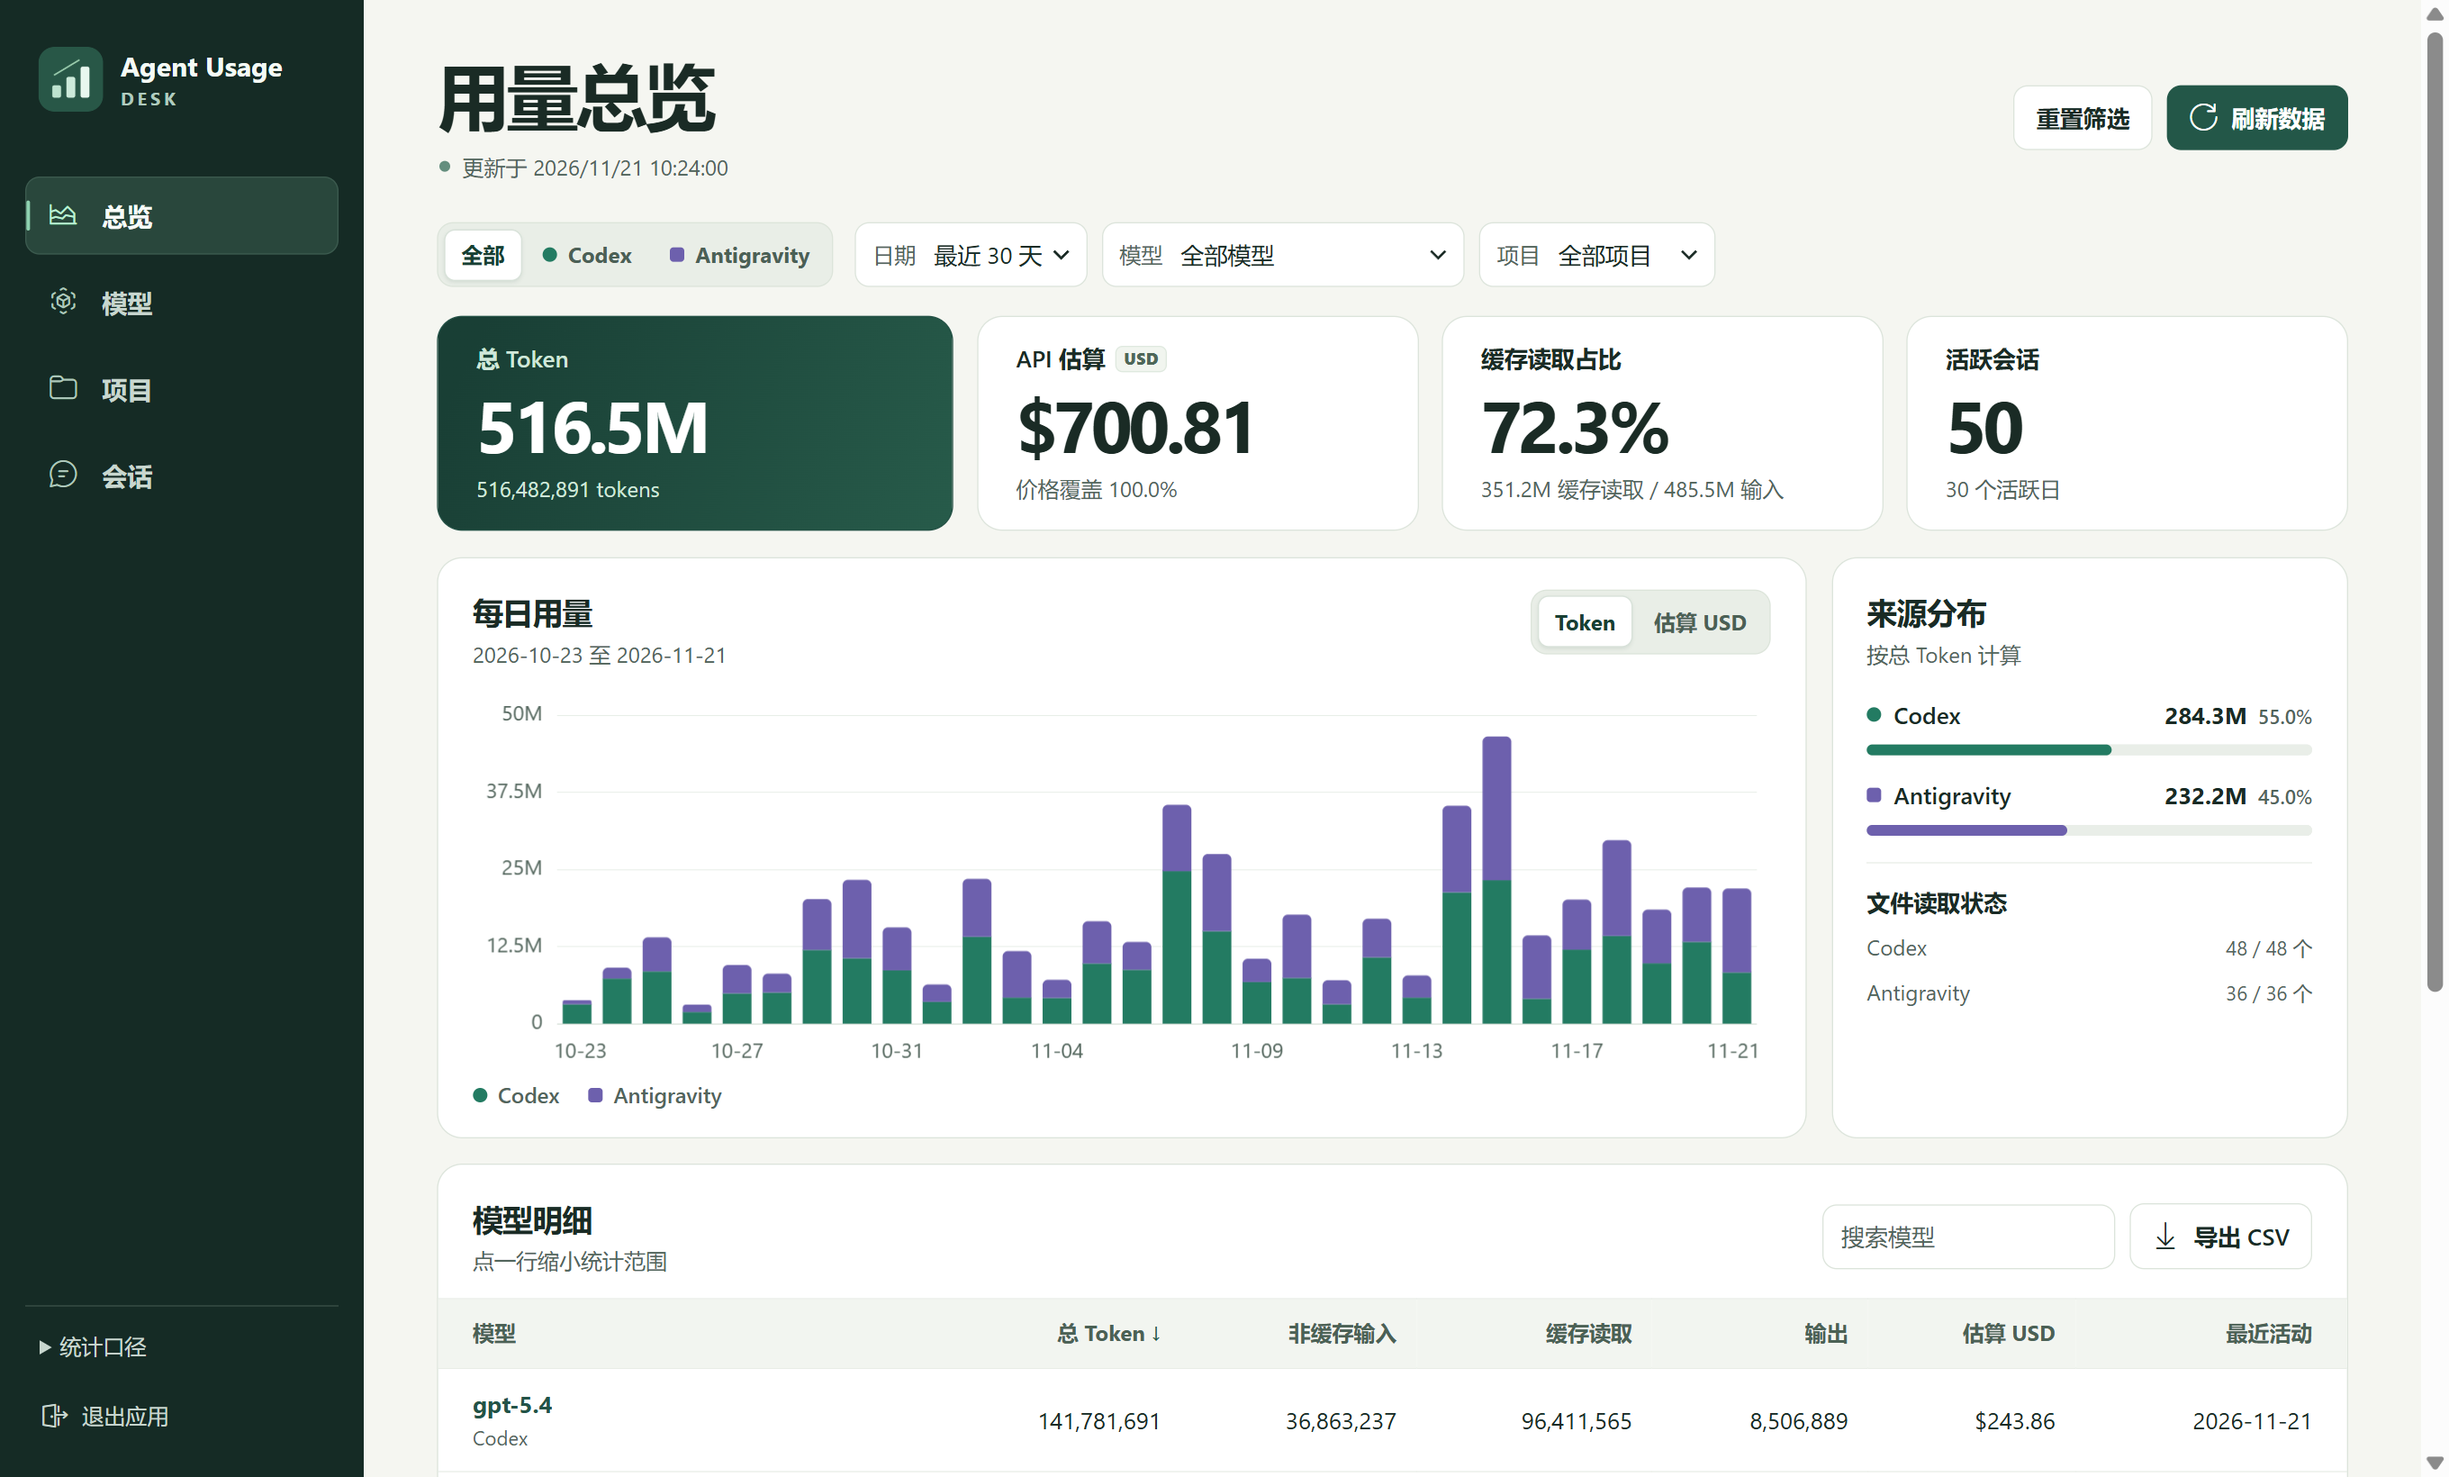
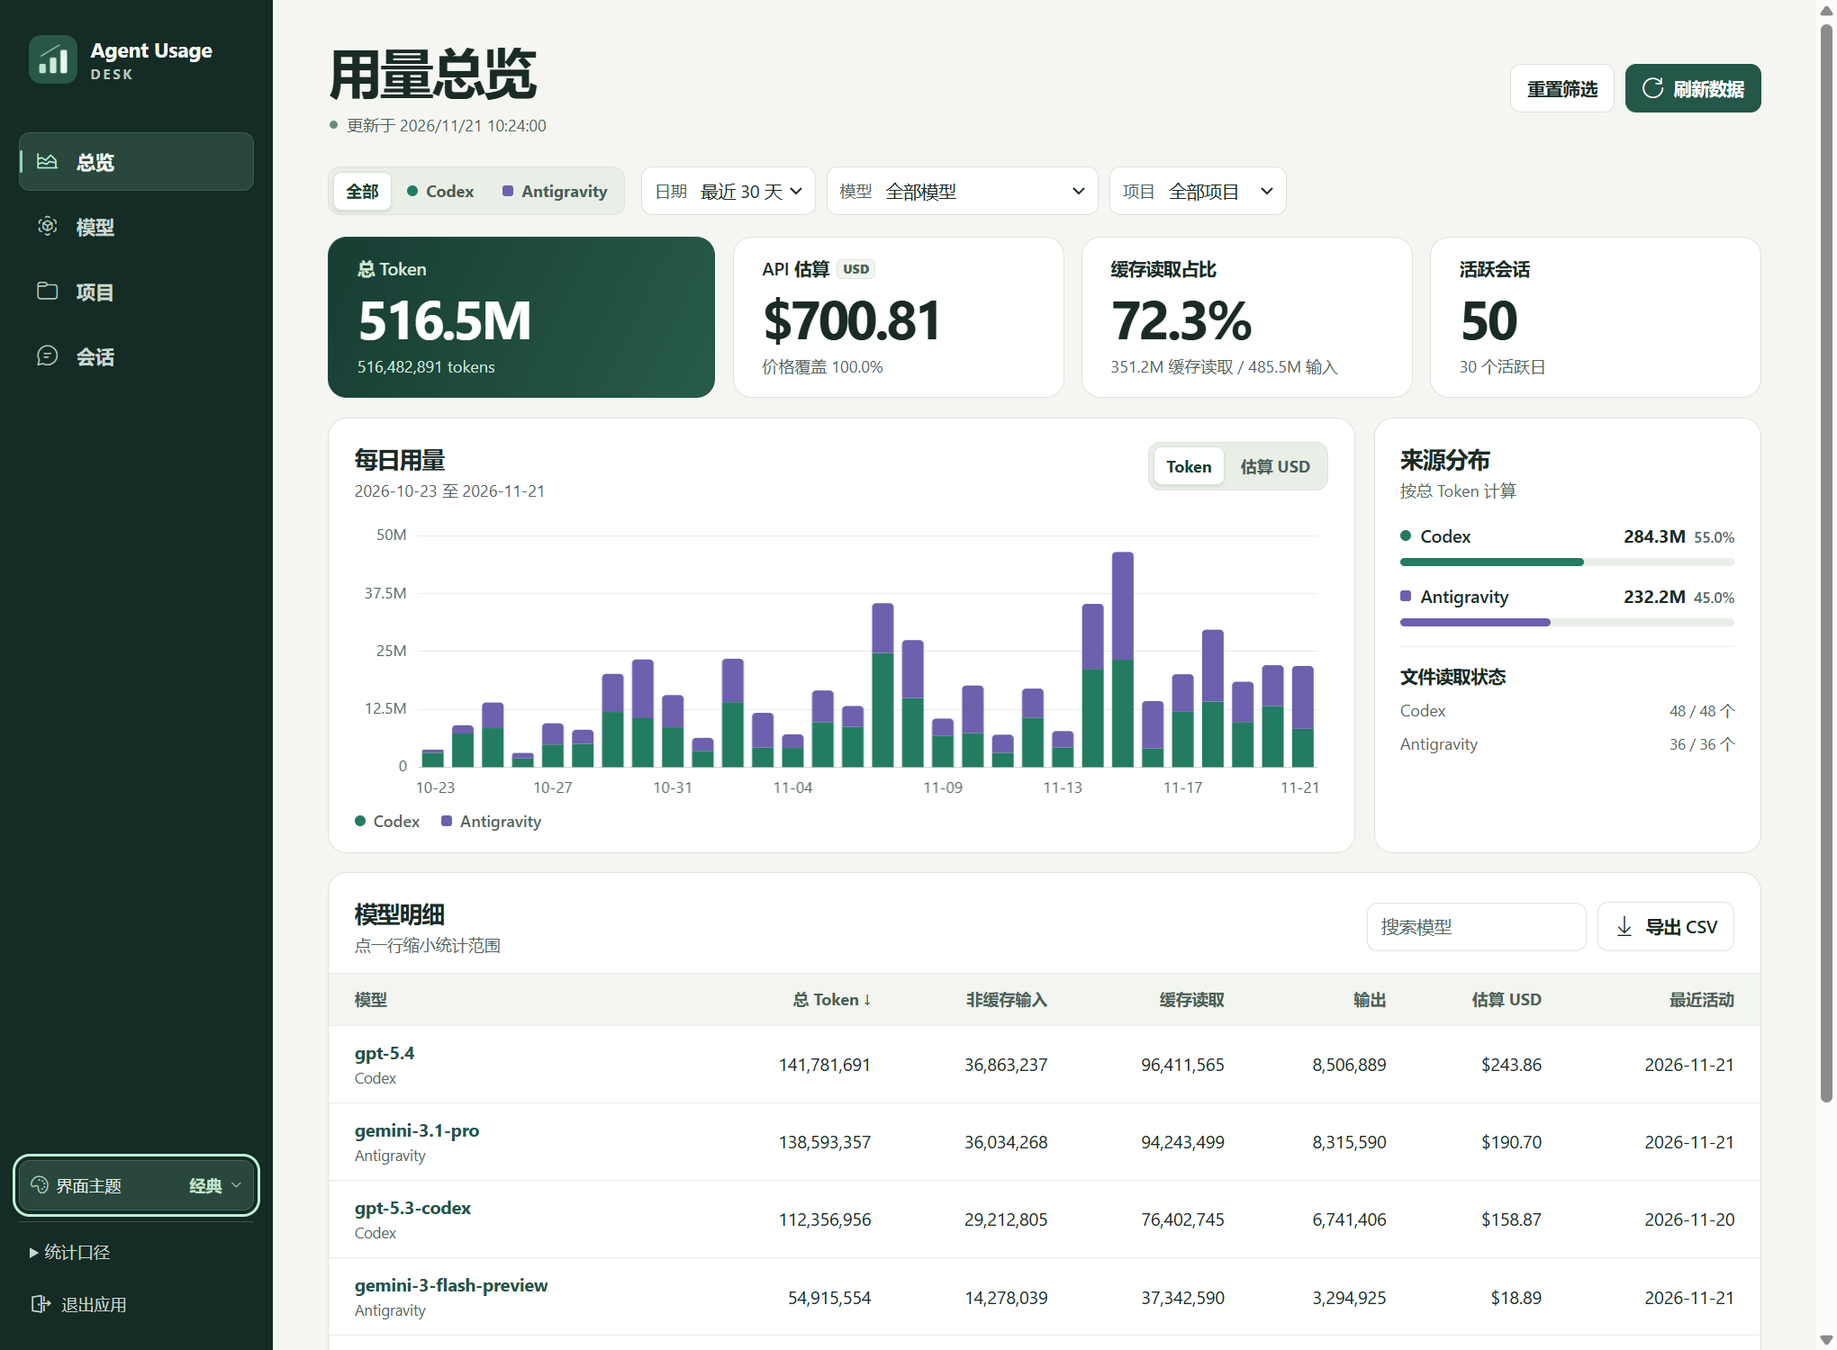
Document the v0.4.1 release and MOONDROP artwork authorization

diff --git a/README.md b/README.md
@@ -8,11 +8,21 @@ Agent Usage Desk 从两款应用的本地记录统计 token，按模型、项目
 
 ## 下载并打开
 
-1. 在 [Releases](https://github.com/shushuyang231/agent-usage-desk/releases/latest) 下载 `Agent-Usage-Desk-0.2.0-windows-x64.exe`。
+1. 在 [最新发行页](https://github.com/shushuyang231/agent-usage-desk/releases/latest) 下载 Windows x64 便携版。当前版本为 [v0.4.1](https://github.com/shushuyang231/agent-usage-desk/releases/tag/v0.4.1)。
 2. 双击启动。程序会在独立窗口打开，并自动扫描本机已有的用量记录。首次扫描的耗时取决于记录数量。
 3. 选择 **Codex**、**Antigravity** 或 **全部**，再用日期、模型和项目缩小范围。
 
-需要 Windows 10 / 11 x64、.NET Framework 4.8 或更新的 4.x 版本，以及 [Microsoft Edge WebView2 Runtime](https://developer.microsoft.com/microsoft-edge/webview2/)。这个版本采用便携单文件分发，当前没有数字签名。日常打开和刷新无需登录或提供 API Key。升级时先关闭旧版窗口，再打开新版。
+需要 Windows 10 / 11 x64、.NET Framework 4.8 或更新的 4.x 版本，以及 [Microsoft Edge WebView2 Runtime](https://developer.microsoft.com/microsoft-edge/webview2/)。这个版本采用便携单文件分发，当前没有数字签名。日常打开和刷新无需登录或提供 API Key。升级时先关闭旧版窗口，再打开新版。首次启动新版会重建本机用量索引。
+
+## v0.4.1 更新
+
+相比上一个公开版本 v0.2.0，这次新增了五套插画主题，也改进了模型分组与估价。
+
+- **六套界面可切换。** 经典主题配合星弦、花月、花窗、晴巷和风绫五套插画设计。每套都有相应的构图、控件配色和图表样式。
+- **主题选择显示实际界面缩略图。** 切换时保留当前视图和筛选，重启后恢复上次选择。Windows 11 的窗口标题栏也会适配插画主题。
+- **同一模型的思考档位合并。** 例如 Gemini 3.8 Flash 的 High 和 Medium 合为一组，模型明细、筛选和导出使用同一分组口径。
+- **补算可确认的 Antigravity 编排用量。** 当日志明确给出底层模型时，按 Gemini 4 Argon 或 Gemini 4 Hydrogen 的标准 API 费率估算规划与执行用量。
+- **缺价提示列出模型名。** 缺价用量仍计入 token 总数，估算金额汇总已有费率的部分。
 
 ## 界面能看什么
 
@@ -25,13 +35,11 @@ Agent Usage Desk 从两款应用的本地记录统计 token，按模型、项目
 
 趋势图可在 **Token** 和 **估算 USD** 之间切换，长日期范围按周汇总。悬停或聚焦图表后按左右方向键，可查看对应日期的数值。表格支持搜索、排序和分页，**导出 CSV** 会导出当前筛选与搜索范围的全部明细。
 
-## 本地主题
+## 界面主题
 
-本地定制包的侧栏 **界面主题** 可打开主题面板，选择经典、星弦、花月、花窗、晴巷或风绫。切换会保留当前视图和筛选，应用也会记住上次使用的主题。
+发行版内置六套主题。点击侧栏的 **界面主题** 可以预览和切换。
 
-五套插画主题所用立绘与图像归属**成都水月雨科技有限公司版权所有**，已获授权用于非商业用途。主题选择面板使用演示数据截图，版权说明位于面板底部。
-
-本地插画文件位于 `ui/local-art/`，分别为 `starlight.png`、`flowers.png`、`garden.jpg`、`daylight.jpg` 和 `ribbon.jpg`。构建会打包该目录下的插画。普通源码检出默认显示经典版，已就位的插画会自动启用对应主题。插画目录在 Git 忽略列表中。
+![主题选择面板，缩略图使用演示数据](docs/theme-gallery.png)
 
 ## 工作原理
 
@@ -65,10 +73,12 @@ Antigravity 的 Orchestrator 路由在逐次生成记录的技术标识与显示
 python -m venv .venv
 .\.venv\Scripts\python.exe -m pip install -r requirements.txt
 $env:Path = "$(Resolve-Path '.venv\Scripts');$env:Path"
-.\build-windows.ps1 -Name 'Agent-Usage-Desk-0.2.0-windows-x64'
+.\build-windows.ps1 -Name 'Agent-Usage-Desk-windows-x64'
 ```
 
 脚本下载固定版本的官方 WebView2 SDK，使用 Windows 自带的 .NET Framework 编译器编译 WinForms 窗口，再用 PyInstaller 生成 `dist\` 下的便携 EXE。构建需要联网下载依赖。已有 SDK 包时可通过 `-WebViewPackage` 指定本地文件。
+
+使用仓库源码直接构建时可运行经典主题。插画主题读取 Git 忽略目录 `ui/local-art/` 下的授权素材，文件名为 `starlight.png`、`flowers.png`、`garden.jpg`、`daylight.jpg` 和 `ribbon.jpg`，界面缩略图位于该目录的 `previews/` 子目录。
 
 | 文件 | 职责 |
 | --- | --- |
@@ -79,3 +89,9 @@ $env:Path = "$(Resolve-Path '.venv\Scripts');$env:Path"
 | `ui/` | HTML、CSS、原生 JavaScript 和 Canvas 图表 |
 
 Antigravity 适配器参考了 [ccusage](https://github.com/ryoppippi/ccusage) v20.0.51 的 MIT 代码。第三方声明见 [THIRD_PARTY.txt](THIRD_PARTY.txt)。
+
+## 插画版权与非商业授权
+
+星弦、花月、花窗、晴巷和风绫五套主题所用的立绘与图像，**© 成都水月雨科技有限公司（MOONDROP／水月雨）版权所有**。
+
+本项目已获授权将上述立绘与图像用于非商业用途。版权与授权说明也显示在应用主题选择面板底部。
